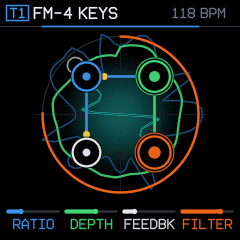
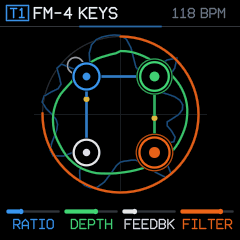
FM-4's picture: no centre glow or inner figure
The soft glow and the Lissajous figure inside the operator square made the centre busy, and both cost drawing
time every frame (a glow, and 64 points of three sines each). The operators, the carriers' double rings, the
signal pulses, the feedback loop and the outer waveform ring stay. docs/img/a22/fm4.png and dist/a22.rfm1
redone.

Changed region(s): [[0.175, 0.0875, 0.8458, 0.7875], [0.8167, 0.4375, 0.8458, 0.525]]

diff --git a/core/inst_fm4.c b/core/inst_fm4.c
@@ -197,7 +197,7 @@ static void fm4_render(Voice *v, const Blk *b, f32 *out_l, f32 *out_r, int n)
     v->s[7] *= 1.0f - onepole_k(0.025f, b->sr / (f32)n);
 }
 
-/* ---- 4-Color Vector Picture: 4-Op Topology Matrix + Live FM Lissajous Ring ------- */
+/* ---- 4-Color Vector Picture: 4-Op Topology Matrix + Live FM Waveform Ring ------- */
 static f32 fm_rot, fm_kick, fm_kickv, fm_lev;
 static uint32_t fm_seen;
 
@@ -255,36 +255,15 @@ static void fm4_draw(const Vis *vis)
     fm_lev += (minf(1.0f, vis->level * 3.4f) - fm_lev) * minf(1.0f, dt * 16.0f);
     fm_rot = fractf(fm_rot + dt * (0.04f + 0.14f * depth + 0.12f * fm_lev));
 
-    /* Soft ambient core glow responding to K4 FILTER & output level */
-    g_color(GC_CYAN);
-    g_glow(cx, cy, 34.0f + 24.0f * flt + 12.0f * fm_lev, 0.16f + 0.22f * flt * (0.4f + 0.6f * fm_lev));
-
     /* Subtle coordinate crosshairs in Slate */
     g_color(GC_SLATE);
     g_ring(cx, cy, 78.0f, 1.1f, 0.28f);
-    g_ring(cx, cy, 38.0f, 1.0f, 0.16f);
     g_line(cx - 86.0f, cy, cx + 86.0f, cy, 1.0f, 0.16f);
     g_line(cx, cy - 78.0f, cx, cy + 78.0f, 1.0f, 0.16f);
 
     /* Filter halo ring (Orange = K4 FILTER) */
     g_color(GC_ORANGE);
     g_arc(cx, cy, 78.0f, -0.25f, -0.25f + 0.99f * flt, 2.4f, 0.72f + 0.25f * fm_lev);
-
-    /* Inner 2D FM Lissajous harmonic orbit (morphs with topology + K1 RATIO + K2 DEPTH) */
-    {
-        f32 wx = 1.0f + (f32)((algo + 1) & 3);
-        f32 wy = 1.0f + (f32)(int)(ratio * 4.0f + 0.5f);
-        f32 rl = 26.0f + 10.0f * flt + 6.0f * fm_lev;
-        f32 pm = (0.08f + 0.38f * depth) * (0.6f + 0.4f * fm_lev);
-        for (i = 0; i < 64; i++) {
-            f32 u = (f32)i * (1.0f / 64.0f);
-            f32 m = sin_turns((wx + wy) * u + fm_rot * 2.0f) * pm;
-            xy[2 * i]     = cx + sin_turns(wx * u + m + fm_rot) * rl;
-            xy[2 * i + 1] = cy + cos_turns(wy * u - m * fb) * rl * 0.86f;
-        }
-        g_color(GC_CYAN);
-        g_poly(xy, 64, 1, 1.3f, 0.32f + 0.32f * fm_lev);
-    }
 
     /* Outer FM Phase-Modulated Waveform Ring (Green = K2 DEPTH, Blue = K1 RATIO) */
     {
